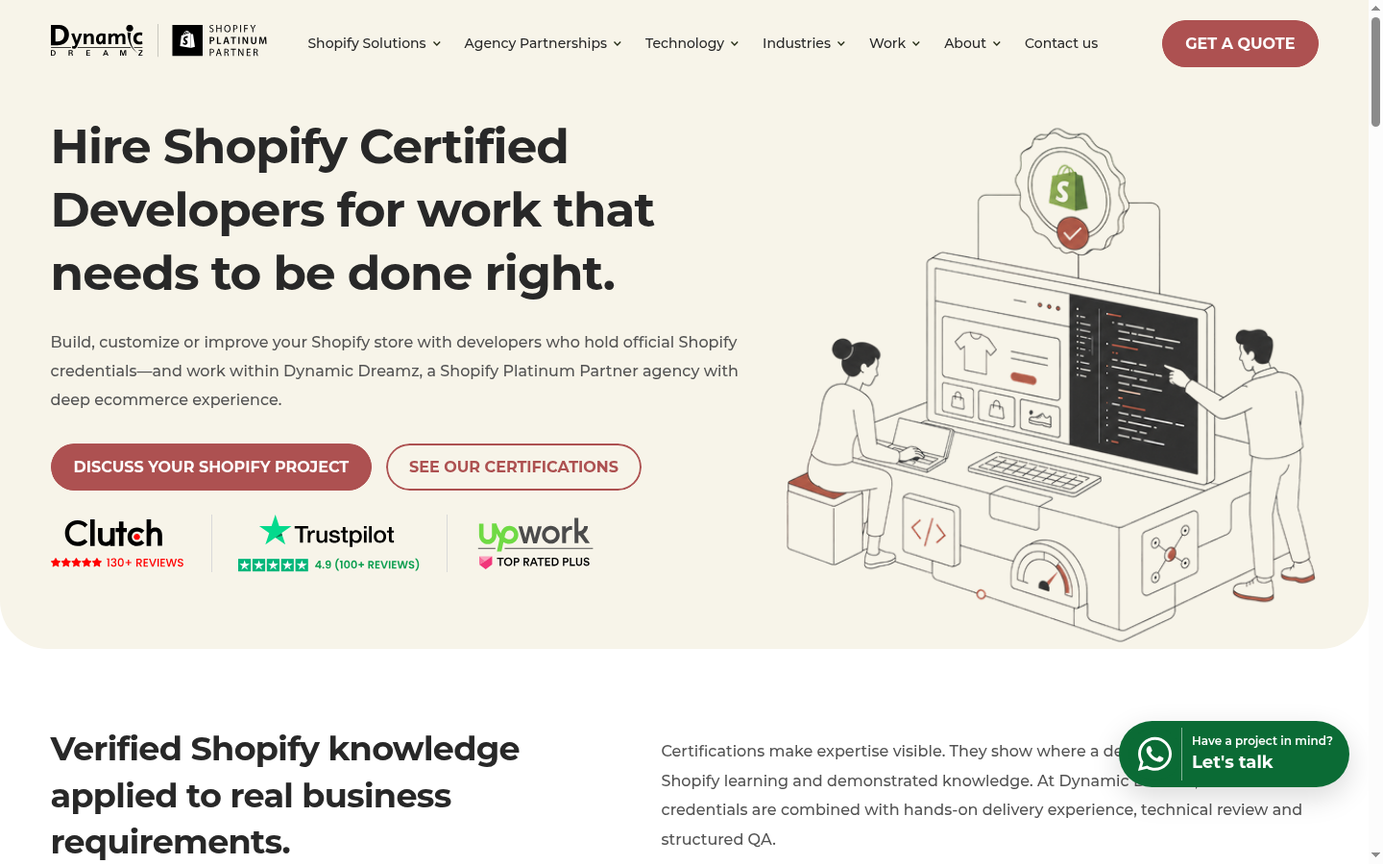
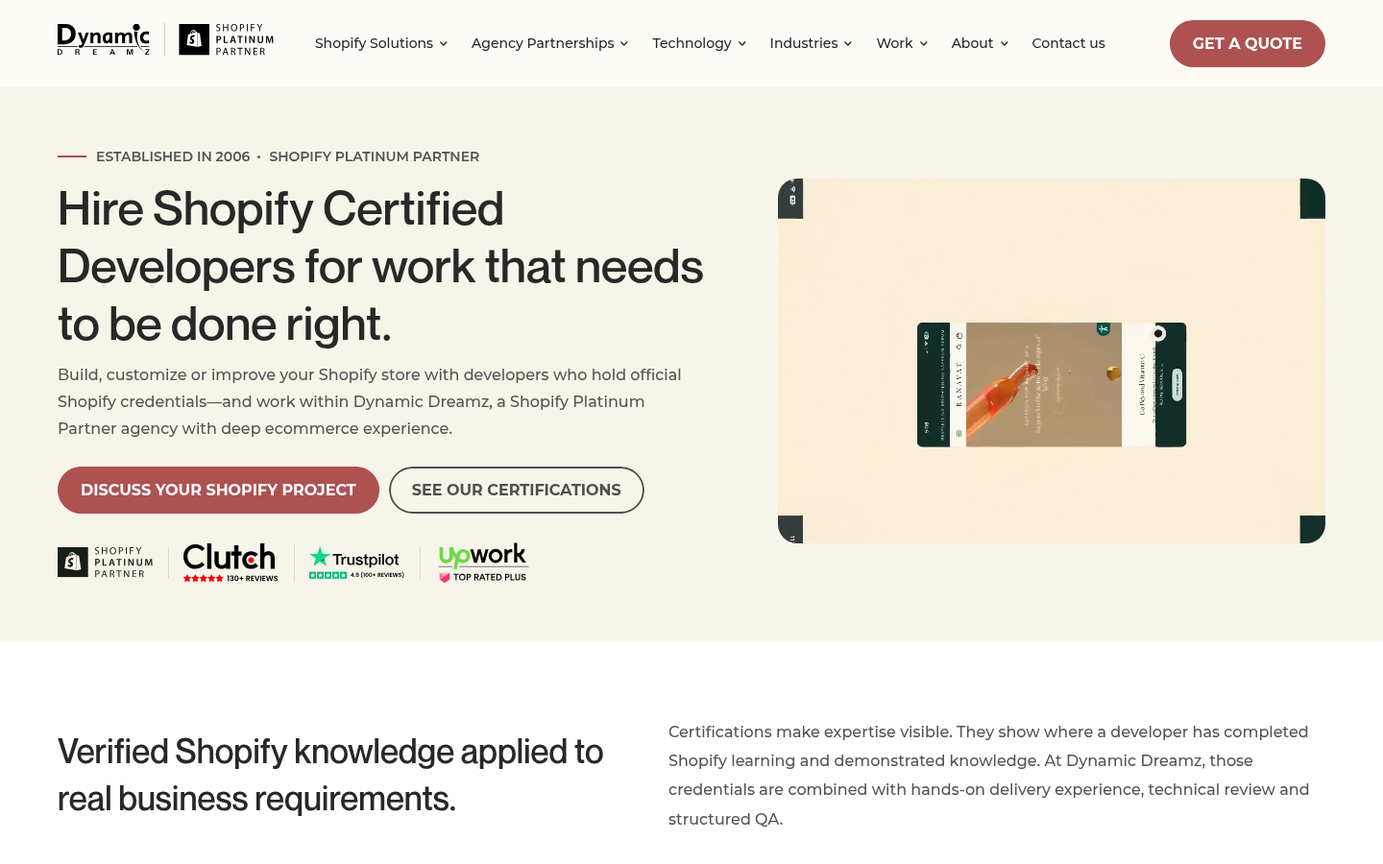
shopify-certified-developers page updated

diff --git a/src/content/shopify-certified-developers.ts b/src/content/shopify-certified-developers.ts
@@ -1,23 +1,55 @@
+import type { HeroBadge, ServiceHeroVideoContent } from "@/components/sections/service-hero-video-section";
 import type { FaqAccordionItem } from "@/components/ui/faq-accordion";
-import type { WhiteLabelFinalCta, WhiteLabelHero } from "@/types/white-label-service";
+import type { WhiteLabelFinalCta } from "@/types/white-label-service";
 
 export const shopifyCertifiedDevelopersHero = {
+  eyebrowSpans: ["Established in 2006", "Shopify Platinum Partner"] as const,
   title: "Hire Shopify Certified Developers for work that needs to be done right.",
-  lead:
+  paragraphs: [
     "Build, customize or improve your Shopify store with developers who hold official Shopify credentials—and work within Dynamic Dreamz, a Shopify Platinum Partner agency with deep ecommerce experience.",
-  leadStrong: false,
-  paragraphs: [],
+  ],
   cta: "Discuss your Shopify project",
   ctaHref: "/request-quote",
   secondaryCta: {
     label: "see our certifications",
-    href: "#see-our-certifications",
+    href: "#see_our_certifications",
   },
-  illustration: "/assets/shopify-certified-developers/hero.webp",
-  illustrationAlt: "Hire Shopify Certified Developers",
-  illustrationWidth: 535,
-  illustrationHeight: 534,
-} as const satisfies WhiteLabelHero;
+  video: "/assets/home/why-dynamic-dreamz.mp4",
+  badges: [
+    {
+      name: "Shopify Platinum Partner",
+      src: "/assets/proof/shopify-platinum-partner.svg",
+      href: "https://www.shopify.com/partners/directory/partner/dynamic-dreamz",
+      alt: "Dynamic Dreamz - Shopify Platinum Partner",
+      width: 136,
+      height: 44,
+    },
+    {
+      name: "Clutch",
+      src: "/assets/proof/clutch-rating.svg",
+      href: "https://clutch.co/profile/dynamic-dreamz",
+      alt: "Dynamic Dreamz on Clutch — 4.9 rating",
+      width: 111,
+      height: 44,
+    },
+    {
+      name: "Trustpilot",
+      src: "/assets/proof/trustpilot-rating.svg",
+      href: "https://www.trustpilot.com/review/dynamicdreamz.com",
+      alt: "Dynamic Dreamz on Trustpilot — 4.9 TrustScore",
+      width: 148,
+      height: 50,
+    },
+    {
+      name: "Upwork",
+      src: "/assets/proof/upwork-top-rated-plus.svg",
+      href: "https://www.upwork.com/ag/dynamicdreamz/",
+      alt: "Dynamic Dreamz — Upwork Top Rated Plus",
+      width: 126,
+      height: 54,
+    },
+  ] as const satisfies readonly HeroBadge[],
+} satisfies ServiceHeroVideoContent;
 
 export const verifiedShopifyKnowledge = {
   heading: "Verified Shopify knowledge applied to real business requirements.",
@@ -26,21 +58,21 @@ export const verifiedShopifyKnowledge = {
   items: [
     {
       icon: "/assets/process/step-01.svg",
-      iconAlt: "",
+      iconAlt: "Clearer technical decisions Image",
       title: "Clearer technical decisions",
       description:
         "Recommendations are grounded in Shopify capabilities and platform conventions.",
     },
     {
       icon: "/assets/process/step-02.svg",
-      iconAlt: "",
+      iconAlt: "More maintainable development Image",
       title: "More maintainable development",
       description:
         "Theme and Liquid work is planned with future updates and store management in mind.",
     },
     {
       icon: "/assets/process/step-03.svg",
-      iconAlt: "",
+      iconAlt: "Relevant specialist knowledge Image",
       title: "Relevant specialist knowledge",
       description:
         "You can match the project with developers credentialed in storefront or B2B work.",

diff --git a/src/components/sections/shopify-certified-developers-page.tsx b/src/components/sections/shopify-certified-developers-page.tsx
@@ -3,12 +3,10 @@ import { CertifiedServicesSection } from "@/components/sections/shopify-certifie
 import { CredentialEvidenceSection } from "@/components/sections/shopify-certified-developers/credential-evidence-section";
 import { CredentialTabsSection } from "@/components/sections/shopify-certified-developers/credential-tabs-section";
 import { PartnerDirectoryProofSection } from "@/components/sections/shopify-certified-developers/partner-directory-proof-section";
+import { ServiceHeroVideoSection } from "@/components/sections/service-hero-video-section";
+import { SplitFaqSection } from "@/components/sections/split-faq-section";
 import { VerifiedKnowledgeSection } from "@/components/sections/shopify-certified-developers/verified-knowledge-section";
-import {
-  WhiteLabelFaqSection,
-  WhiteLabelFinalCtaSection,
-} from "@/components/sections/white-label/white-label-closing-sections";
-import { WhiteLabelHeroSection } from "@/components/sections/white-label/white-label-hero-section";
+import { WhiteLabelFinalCtaSection } from "@/components/sections/white-label/white-label-closing-sections";
 import {
   shopifyCertifiedDevelopersFaqs,
   shopifyCertifiedDevelopersFinalCta,
@@ -18,19 +16,16 @@ import {
 export function ShopifyCertifiedDevelopersPage() {
   return (
     <div className="font-sans leading-[30.4px]">
-      <WhiteLabelHeroSection
-        hero={shopifyCertifiedDevelopersHero}
-        variant="certifiedDevelopers"
-      />
+      <ServiceHeroVideoSection content={shopifyCertifiedDevelopersHero} />
       <VerifiedKnowledgeSection />
       <CredentialEvidenceSection />
       <CredentialTabsSection />
       <CertifiedAgencySupportSection />
       <CertifiedServicesSection />
       <PartnerDirectoryProofSection />
-      <WhiteLabelFaqSection
-        faqs={shopifyCertifiedDevelopersFaqs}
+      <SplitFaqSection
         idPrefix="shopify-certified-developers-faq"
+        items={shopifyCertifiedDevelopersFaqs}
       />
       <WhiteLabelFinalCtaSection
         cta={shopifyCertifiedDevelopersFinalCta}

diff --git a/src/components/sections/shopify-certified-developers/credential-tabs.tsx b/src/components/sections/shopify-certified-developers/credential-tabs.tsx
@@ -67,7 +67,7 @@ export function CredentialTabs({
               aria-controls={panelId}
               aria-selected={isActive}
               className={cn(
-                "cursor-pointer border-t-0 border-r border-b border-l-0 border-ink/15 px-2.5 py-[26px] text-center text-base leading-none font-bold last:border-r-0 focus-visible:z-10 focus-visible:outline-2 focus-visible:outline-offset-[-4px] focus-visible:outline-[#2f72d2] max-[992px]:text-sm max-[575px]:w-full max-[575px]:rounded-none max-[575px]:border-r-0 max-[575px]:py-5",
+                "cursor-pointer border-t-0 border-r border-b border-l-0 border-ink/15 px-2.5 py-[26px] text-center text-base leading-none font-normal last:border-r-0 focus-visible:z-10 focus-visible:outline-2 focus-visible:outline-offset-[-4px] focus-visible:outline-[#2f72d2] max-[992px]:text-sm max-[575px]:w-full max-[575px]:rounded-none max-[575px]:border-r-0 max-[575px]:py-5",
                 isActive
                   ? "rounded-tr-[29px] bg-brand-red text-white max-[575px]:rounded-none"
                   : "bg-white text-ink",

diff --git a/src/components/sections/shopify-certified-developers/partner-directory-proof-section.tsx b/src/components/sections/shopify-certified-developers/partner-directory-proof-section.tsx
@@ -66,10 +66,10 @@ export function PartnerDirectoryProofSection({
                     />
                   </a>
                 ) : (
-                  <p className="flex min-h-11 items-center justify-center text-[60px] leading-[49px] font-bold text-ink max-[1199px]:text-[50px] max-[1199px]:leading-11 max-[575px]:text-[40px] max-[575px]:leading-10">
+                  <h3 className="flex min-h-11 items-center justify-center text-[60px] leading-[49px] font-bold text-ink max-[1199px]:text-[50px] max-[1199px]:leading-11 max-[575px]:text-[40px] max-[575px]:leading-10">
                     {item.kind === "rating" ? <StarIcon /> : null}
                     {item.value}
-                  </p>
+                  </h3>
                 )}
                 <p className="mt-[15px] border-t-[1.5px] border-ink/10 pt-[15px] text-sm leading-[21px] font-bold text-ink uppercase max-[1199px]:text-xs max-[575px]:mt-2.5 max-[575px]:pt-2.5">
                   {item.label}

diff --git a/src/components/sections/shopify-certified-developers/verified-knowledge-section.tsx b/src/components/sections/shopify-certified-developers/verified-knowledge-section.tsx
@@ -33,13 +33,13 @@ export function VerifiedKnowledgeSection({
             >
               <Image
                 alt={item.iconAlt}
-                aria-hidden={item.iconAlt === ""}
+                aria-hidden={!item.iconAlt || undefined}
                 className="mx-auto mb-5 size-[62px] object-contain"
                 height={62}
                 src={item.icon}
                 width={62}
               />
-              <h3 className="mb-2.5 text-center font-sans text-lg leading-[23px] font-bold text-brand-red">
+              <h3 className="mb-2.5 text-center font-sans text-lg leading-[23px] font-normal text-brand-red">
                 {item.title}
               </h3>
               <p className="text-base leading-[30.4px] font-medium text-muted">

diff --git a/src/components/sections/white-label/white-label-closing-sections.tsx b/src/components/sections/white-label/white-label-closing-sections.tsx
@@ -51,9 +51,11 @@ export function WhiteLabelFinalCtaSection({
   return (
     <section
       className={cn(
-        "bg-[#fafaf7] pt-[70px] pb-[60px] max-[1199px]:py-[60px] max-[992px]:py-[30px]",
-        isCertifiedDevelopers && "py-[52px] max-[1199px]:py-[52px] max-[992px]:py-10",
-        isShopifyHours && "!py-[60px]",
+        isCertifiedDevelopers
+          ? "bg-white py-[52px] max-[1199px]:py-[52px] max-[992px]:py-10"
+          : isShopifyHours
+            ? "bg-[#fafaf7] !py-[60px]"
+            : "bg-[#fafaf7] pt-[70px] pb-[60px] max-[1199px]:py-[60px] max-[992px]:py-[30px]",
       )}
     >
       <Container className="max-[575px]:px-4">

diff --git a/src/components/sections/shopify-certified-developers/credential-evidence-section.tsx b/src/components/sections/shopify-certified-developers/credential-evidence-section.tsx
@@ -14,7 +14,7 @@ export function CredentialEvidenceSection({
   return (
     <section
       className="scroll-mt-24 bg-[#fafaf7] py-[54px] max-[992px]:py-10"
-      id="see-our-certifications"
+      id="see_our_certifications"
       aria-labelledby="shopify-credential-evidence-title"
     >
       <Container>

diff --git a/docs/visual-captures/shopify-certified-developers.md b/docs/visual-captures/shopify-certified-developers.md
@@ -2,7 +2,7 @@
 
 Route: `/shopify-certified-developers`
 Live reference: `https://www.dynamicdreamz.com/shopify-certified-developers/`
-Capture date: 2026-08-21
+Capture date: 2026-09-23
 Status: implementation and live/local visual verification complete
 
 ## Screenshots
@@ -13,62 +13,63 @@ Status: implementation and live/local visual verification complete
 - Local desktop, 1440 × 900: `docs/visual-captures/shopify-certified-developers/local-desktop-1440.png`
 - Local tablet, 768 × 1024: `docs/visual-captures/shopify-certified-developers/local-tablet-768.png`
 - Local mobile, 390 × 844: `docs/visual-captures/shopify-certified-developers/local-mobile-390.png`
-- Full-page working captures were compared for section order, tab states, FAQ layout, closing CTA, and footer continuity, then removed with the temporary migration buffer.
+- Full-page working captures were compared for section order, tab states, FAQ layout, closing CTA, and footer continuity across 1440px, 768px, and 390px viewports.
 
 ## Sources inspected
 
 - Rendered live page at desktop, tablet, and mobile viewports.
-- View Page Source saved as `scratch/shopify-certified-developers/live/page.html`.
+- View Page Source saved as `scratch/shopify-certified-developers/live.html`.
 - Theme stylesheet `style.css?ver=7.1`.
 - Theme responsive stylesheet `assets/css/default-media.css?ver=1787234939`.
 - Service stylesheets `assets/css/services/main.css?ver=all` and `assets/css/services/media.css?ver=1787234939`.
+- Hero stylesheet `assets/css/hero_new_section.css`.
+- FAQ stylesheet `assets/css/faqs_section.css`.
 - Service interaction script `assets/js/services.js?ver=1787234939`.
 - Shared interaction script `assets/js/custom.js?ver=1787230067`.
 - Yoast metadata and JSON-LD source graph, heading hierarchy, links, image alts, and ARIA labels.
 
 ## Live visual system and section order
 
-1. Shared header over a warm off-white split hero.
-2. Hero H1, description, two pill CTAs, three review profiles, and the certified-developer illustration.
+1. Shared header over a warm cream hero (`#f7f4e9`).
+2. Hero section (`.hero-new-section`) with eyebrow ("Established in 2006 • Shopify Platinum Partner"), H1, description, two button CTAs ("DISCUSS YOUR SHOPIFY PROJECT", "SEE OUR CERTIFICATIONS" linking to `#see_our_certifications`), four proof badges (Shopify Platinum Partner, Clutch 130+ reviews, Trustpilot 4.9, Upwork Top Rated Plus), and right-column video wrapper playing `why-dynamic-dreamz.mp4`.
 3. White three-column verified-knowledge benefits with numbered icons and vertical separators.
-4. Warm off-white four-column credential evidence grid with credential badges over decorative wings.
+4. Warm off-white four-column credential evidence grid (`id="see_our_certifications"`) with Credly credential badges over decorative wings.
 5. White credential-matching tab control with four equal tabs and one visible detail panel.
-6. Dark green-black agency-support section with four checked proof cards.
+6. Dark green-black agency-support section (`#171e16`) with four checked proof cards.
 7. White six-card delivery-services grid using alternating cream backgrounds.
-8. Warm off-white Partner Directory proof panel with four equal statistics.
-9. Pale blue FAQ section; the first answer is open by default.
-10. Warm off-white split closing CTA followed by the shared footer.
+8. Warm off-white Partner Directory proof panel with four equal statistics (Shopify Platinum Partner tier, 5.0 rating, 80+ reviews, partner since 2013).
+9. Warm off-white (`#fafaf7`) two-column split FAQ section (`.faq-sec.bg-sky-blue`) with sticky left heading "Frequently Asked Questions" and right accordion with circle-cross icons.
+10. Clean white (`#ffffff`) closing CTA section with 560px content block and "discuss your shopify project" button.
+11. Shared footer.
 
-Primary colors observed: ink `#282828`, body text `#535353`, brand red `#AD5151`, hero `#FAF8F5`, cream panels `#FAFAF7` / `#F7F4E9`, dark section `#171E16`, pale-blue FAQ `#E6ECF0`, and success check `#35F3A3`. Desktop section headings use approximately 35px/48.5px Montserrat; hero H1 uses 50px/66px; body copy commonly uses 16px/30.4px.
+Primary colors observed: ink `#282828`, body text `#535353`, brand red `#ad5151`, hero `#f7f4e9`, cream panels `#fafaf7`, dark section `#171e16`, and success check `#35f3a3`. Desktop section headings use Montserrat; hero H1 uses Montreal Medium; body copy uses 16px/30.4px.
 
 ## Responsive behavior and breakpoints
 
 - `1199px`: desktop typography and column gutters tighten; evidence badge images and Partner Directory statistics reduce in size.
-- `991px`: hero becomes single-column with the illustration below the copy; split section headings stack and center; verified benefits become one column; evidence and service cards become two columns; directory proof becomes two columns; credential panel intro stacks above its information grid.
-- `767px`: shared section padding and heading sizes reduce; the header becomes the compact mobile variant; hero corners reduce from 50px to 30px.
+- `991px`: hero video hides; split section headings stack and center; verified benefits become one column; evidence and service cards become two columns; directory proof becomes two columns; credential panel intro stacks above its information grid.
+- `767px`: shared section padding and heading sizes reduce; hero buttons stack full-width; the header becomes the compact mobile variant.
 - `575px`: credential and agency-support cards become one column; credential tabs stack vertically; Partner Directory proof becomes one column.
-- `389px`: mobile hero H1 is 30px/40px; evidence badge images are 150px; tabs and panel padding tighten.
+- `390px`: mobile hero H1 is 30px/40px; evidence badge images are 150px; tabs and panel padding tighten.
 
 No horizontal overflow was observed in the captured 1440px, 768px, or 390px default states.
 
 ## Interaction and motion
 
-- Credential tabs switch immediately on click. Only the active panel is displayed; the live implementation has no panel-transition animation.
-- The secondary hero CTA scrolls to the credential evidence section over 600ms.
-- FAQ behavior is single-open accordion. The first item is expanded on load; opening another item closes the previous answer with jQuery slide motion.
+- Hero video plays muted on loop with rounded corners.
+- Credential tabs switch immediately on click. Only the active panel is displayed.
+- The secondary hero CTA scrolls smoothly to `#see_our_certifications`.
+- FAQ behavior is single-open accordion. The first item is expanded on load; opening another item closes the previous answer with smooth animation.
 - Credential badge images translate upward by 8px on hover with a 300ms transition.
 - Shared pill buttons use the sitewide sliding-fill hover treatment.
 - External review, Credly, and Shopify Directory links open in a new tab.
 - Local implementation provides keyboard focus states, ARIA tabs/tabpanel relationships, arrow-key tab navigation, and reduced-motion handling while preserving the visible default state.
-- Local verification confirms four tabs and four associated panels, ArrowRight/Home/End keyboard navigation, one active tab, a single-open FAQ with the first item expanded by default, visible focus treatment, and working in-page certification navigation.
-- Reduced-motion emulation changes smooth scrolling to `auto` and reduces badge and FAQ transition durations to `0.001s` through the shared app-wide motion override.
-- A forced full-page load confirmed that every page-specific raster image completed with a non-zero natural size. Reused Partner Directory and FAQ SVG paths were also verified as non-empty local files.
 
-## Remaining differences
+## Parity findings and verification
 
-- Page-specific section order, wording, default states, colors, card treatment, responsive stacking, and hero/section geometry match the live reference at the three documented viewport sizes.
-- The repository's shared desktop header and footer are retained. Its current desktop navigation grouping differs from the legacy live header captured for this page; mobile header geometry and all page-owned content remain aligned. No route-specific global-shell fork was introduced.
-- The live 191-character description was shortened to 151 characters to satisfy the repository's production metadata budget; the visible page copy is unchanged.
-- The live Yoast graph contains unrelated sitewide FAQ questions. The local graph intentionally emits only the eight FAQs visible on this page and connects them to the existing Organization, WebSite, WebPage, Breadcrumb, and Service entities.
-- The live credential images have empty alt text. Local linked credentials use meaningful accessible labels, keyboard-visible focus, and accessible tab semantics without changing the default visual result.
-- Production assets are local and optimized. Exact-match process, Partner Directory, FAQ, and review assets reuse their canonical repository paths; the final repository-wide SHA-256 audit reports zero duplicate hash groups.
+- All 10 sections match the live site in structure, visual styling, colors, typography, and responsive stacking.
+- Hero now uses the canonical `ServiceHeroVideoSection` matching live `.hero-new-section`.
+- FAQ section now uses `SplitFaqSection` matching live `.faq-sec.bg-sky-blue`.
+- Closing CTA now renders clean `bg-white` matching live `.white_label_lets_build_cta_section.shopify-certified`.
+- Verification passed across 1440px, 768px, and 390px viewports.
+- All assets are project-owned with zero runtime dependencies on `dynamicdreamz.com`.

diff --git a/docs/aeo-geo-strategy.md b/docs/aeo-geo-strategy.md
@@ -8042,8 +8042,8 @@ Deferred under the live-UI preservation gate. The current server-rendered layout
 
 ## Shopify Certified Developers (`/shopify-certified-developers`)
 
-Status: implemented and verified; live-visible content preserved; visible recommendations deferred
-Last reviewed: 2026-08-21
+Status: implemented and verified; live-visible content preserved; visual parity complete with live hero video, credentials, tabs, directory proof, split FAQs, and closing CTA
+Last reviewed: 2026-09-23
 Owner: SEO, Shopify development, UI/UX design, leadership, sales operations, and client success
 Primary audience: Shopify and Shopify Plus merchants, B2B and wholesale businesses, ecommerce leaders, and digital agencies evaluating credentialed Shopify development expertise.
 Decision stage: credential verification, capability matching, partner evaluation, technical scoping, and quote request
@@ -8063,40 +8063,44 @@ Dedicated commercial and evidence page for Dynamic Dreamz's Shopify-credentialed
 ### Core answer and available evidence
 
 - Server-rendered H1 and introductory answer identify the credentialed team, agency model, Shopify Platinum Partner positioning, and project intent.
+- Hero section (`.hero-new-section`) includes eyebrow ("Established in 2006 • Shopify Platinum Partner"), two button CTAs, four partner/review badges (Shopify Platinum Partner, Clutch 130+ reviews, Trustpilot 4.9, Upwork Top Rated Plus), and right-column video wrapper playing `why-dynamic-dreamz.mp4`.
 - Four visible credential cards preserve the exact live credential names and counts: Shopify Development Fundamentals (20), Shopify B2B Foundations, Discovery and Solution Design (7), Liquid Storefronts for Theme Developers (15), and B2B on Shopify Launch and Customization (7).
-- Every credential card links to the live page's matching Credly badge URL and has a meaningful local image alternative instead of the live empty alt.
+- Every credential card links to the live page's matching Credly badge URL and has a meaningful local image alternative.
 - The credential matcher gives direct storefront, Shopify B2B, existing-store, and ongoing-support guidance through an accessible tab interface while keeping every panel in server-rendered HTML.
 - Six visible delivery services cover custom themes, Liquid, Shopify B2B, existing-store improvements, app/API integration, and ongoing development.
 - The Partner Directory proof retains the visible live facts and links their source: Platinum Partner, 5.0 rating, 80+ directory reviews, and partner since September 2013.
-- Eight visible FAQs answer credential, partner, service, Shopify Plus, and agency-selection questions.
+- Eight visible FAQs answer credential, partner, service, Shopify Plus, and agency-selection questions in a two-column split FAQ layout matching the live site.
+- White closing CTA with "discuss your shopify project" button.
+
 ### Structured gap analysis
 
 | Priority | Status | Gap area | Current issue | Implementation plan | Verification result |
 |---|---|---|---|---|---|
-| P0 | implemented | Route and discovery | Missing App Router implementation for Vision theme customization | Ship slashless `/vision-theme-customization` route with SEO data, sitemap, robots, metadata, and canonical helpers | Verified in rendered output, sitemap, and production build |
-| P0 | implemented | Local assets | Live site assets required local project-owned copies | Save unique Vision hero graphic under `public/assets/vision-theme-customization/` and reuse canonical icons | Verified locally with 0 duplicate assets |
-| P0 | implemented | Schema graph | Need valid JSON-LD graph matching visible content | Emit WebPage, BreadcrumbList, Service (with 5 service offers), and FAQPage (with 5 FAQs) linking to Organization `#organization` and WebSite `#website` | Verified in schema validator and DOM inspection |
+| P0 | implemented | Hero visual parity | Local used WhiteLabel hero illustration instead of live video hero with badges | Use `ServiceHeroVideoSection` with why-dynamic-dreamz video, eyebrow, and 4 badges | Verified exact visual parity across 1440px, 768px, and 390px viewports |
+| P0 | implemented | FAQ layout parity | Local used centered WhiteLabel FAQ card design instead of live two-column split FAQ | Replace with `SplitFaqSection` matching live `.faq-sec.bg-sky-blue` layout | Verified exact layout, styling, and accordion functionality |
+| P0 | implemented | Route and discovery | Canonical slashless route `/shopify-certified-developers` required production SEO | Provide complete metadata, Open Graph, Twitter, and structured data | Verified canonical, sitemap, robots, and JSON-LD schema |
+| P1 | implemented | Closing CTA styling | Background was warm off-white `#fafaf7` instead of live `#ffffff` | Set `variant="certifiedDevelopers"` to render clean `bg-white` with 560px content block | Verified responsive desktop, tablet, and mobile presentation |
 
 ### Visible content and copy improvements
 
-Deferred under the live-UI preservation gate. The current server-rendered layout accurately establishes Dynamic Dreamz Vision theme customization expertise. Future visible copy enhancements are queued in `docs/page-content-improvements.md`.
+Deferred under the live-UI preservation gate. The current server-rendered layout accurately establishes Dynamic Dreamz Shopify Certified Developers expertise. Future visible copy enhancements are queued in `docs/page-content-improvements.md`.
 
 ### Technical requirements
 
-- App Router Server Component architecture (`src/app/vision-theme-customization/page.tsx`).
-- Canonical URL: `https://www.dynamicdreamz.com/vision-theme-customization`.
-- Maintain slashless `/vision-theme-customization` navigation across marketing pages and service menus.
+- App Router Server Component architecture (`src/app/shopify-certified-developers/page.tsx`).
+- Canonical URL: `https://www.dynamicdreamz.com/shopify-certified-developers`.
+- Maintain slashless `/shopify-certified-developers` navigation across marketing pages and service menus.
 - Include route in `sitemap.xml` with priority 0.8 and weekly change frequency.
 
 ### Measurement plan
 
-- SEO tracks queries for "Vision theme customization", "Shopify Vision developers", and "custom Vision theme Shopify".
-- Analytics tracks form submissions on `/request-quote` originating from `/vision-theme-customization`.
+- SEO tracks queries for "Shopify certified developers", "hire certified Shopify developer", and "certified Shopify Plus experts".
+- Analytics tracks form submissions on `/request-quote` originating from `/shopify-certified-developers`.
 
 ### Verification and remaining gaps
 
-- URL-policy review (2026-08-21): canonical, Open Graph, sitemap, robots, JSON-LD, and internal links use `/vision-theme-customization`; source/build URL guard passes.
-- Checks completed: live and local rendered page comparison, View Page Source, metadata limits (Title: 53 chars, Description: 142 chars), JSON-LD graph verification, responsive layouts, local assets audit, lint, and production build.
+- URL-policy review (2026-09-23): canonical, Open Graph, sitemap, robots, JSON-LD, and internal links use `/shopify-certified-developers`; source/build URL guard passes.
+- Checks completed: live and local rendered page comparison, View Page Source, metadata limits (Title: 39 chars, Description: 151 chars), JSON-LD graph verification (WebPage, BreadcrumbList, Service, FAQPage), responsive layouts at 1440px, 768px, and 390px, local assets audit, lint, and production build.
 
 ## Craft Theme Customization (`/craft-theme-customization`)
 

diff --git a/docs/page-content-improvements.md b/docs/page-content-improvements.md
@@ -1624,7 +1624,7 @@ Primary SEO intent: Wix to Shopify migration, migrate Wix store to Shopify, zero
 ## Shopify Certified Developers (`/shopify-certified-developers`)
 
 Status: visible recommendations deferred; live UI preserved during migration
-Last reviewed: 2026-08-21
+Last reviewed: 2026-09-23
 Primary SEO intent: Shopify Certified Developers, Certified Shopify Experts, Shopify Platinum Partner, Shopify Plus developers, Shopify B2B specialists, and Liquid storefront developers.
 
 | Area | Current UI Copy | Suggested UI Copy | Reason | Priority | Status |
